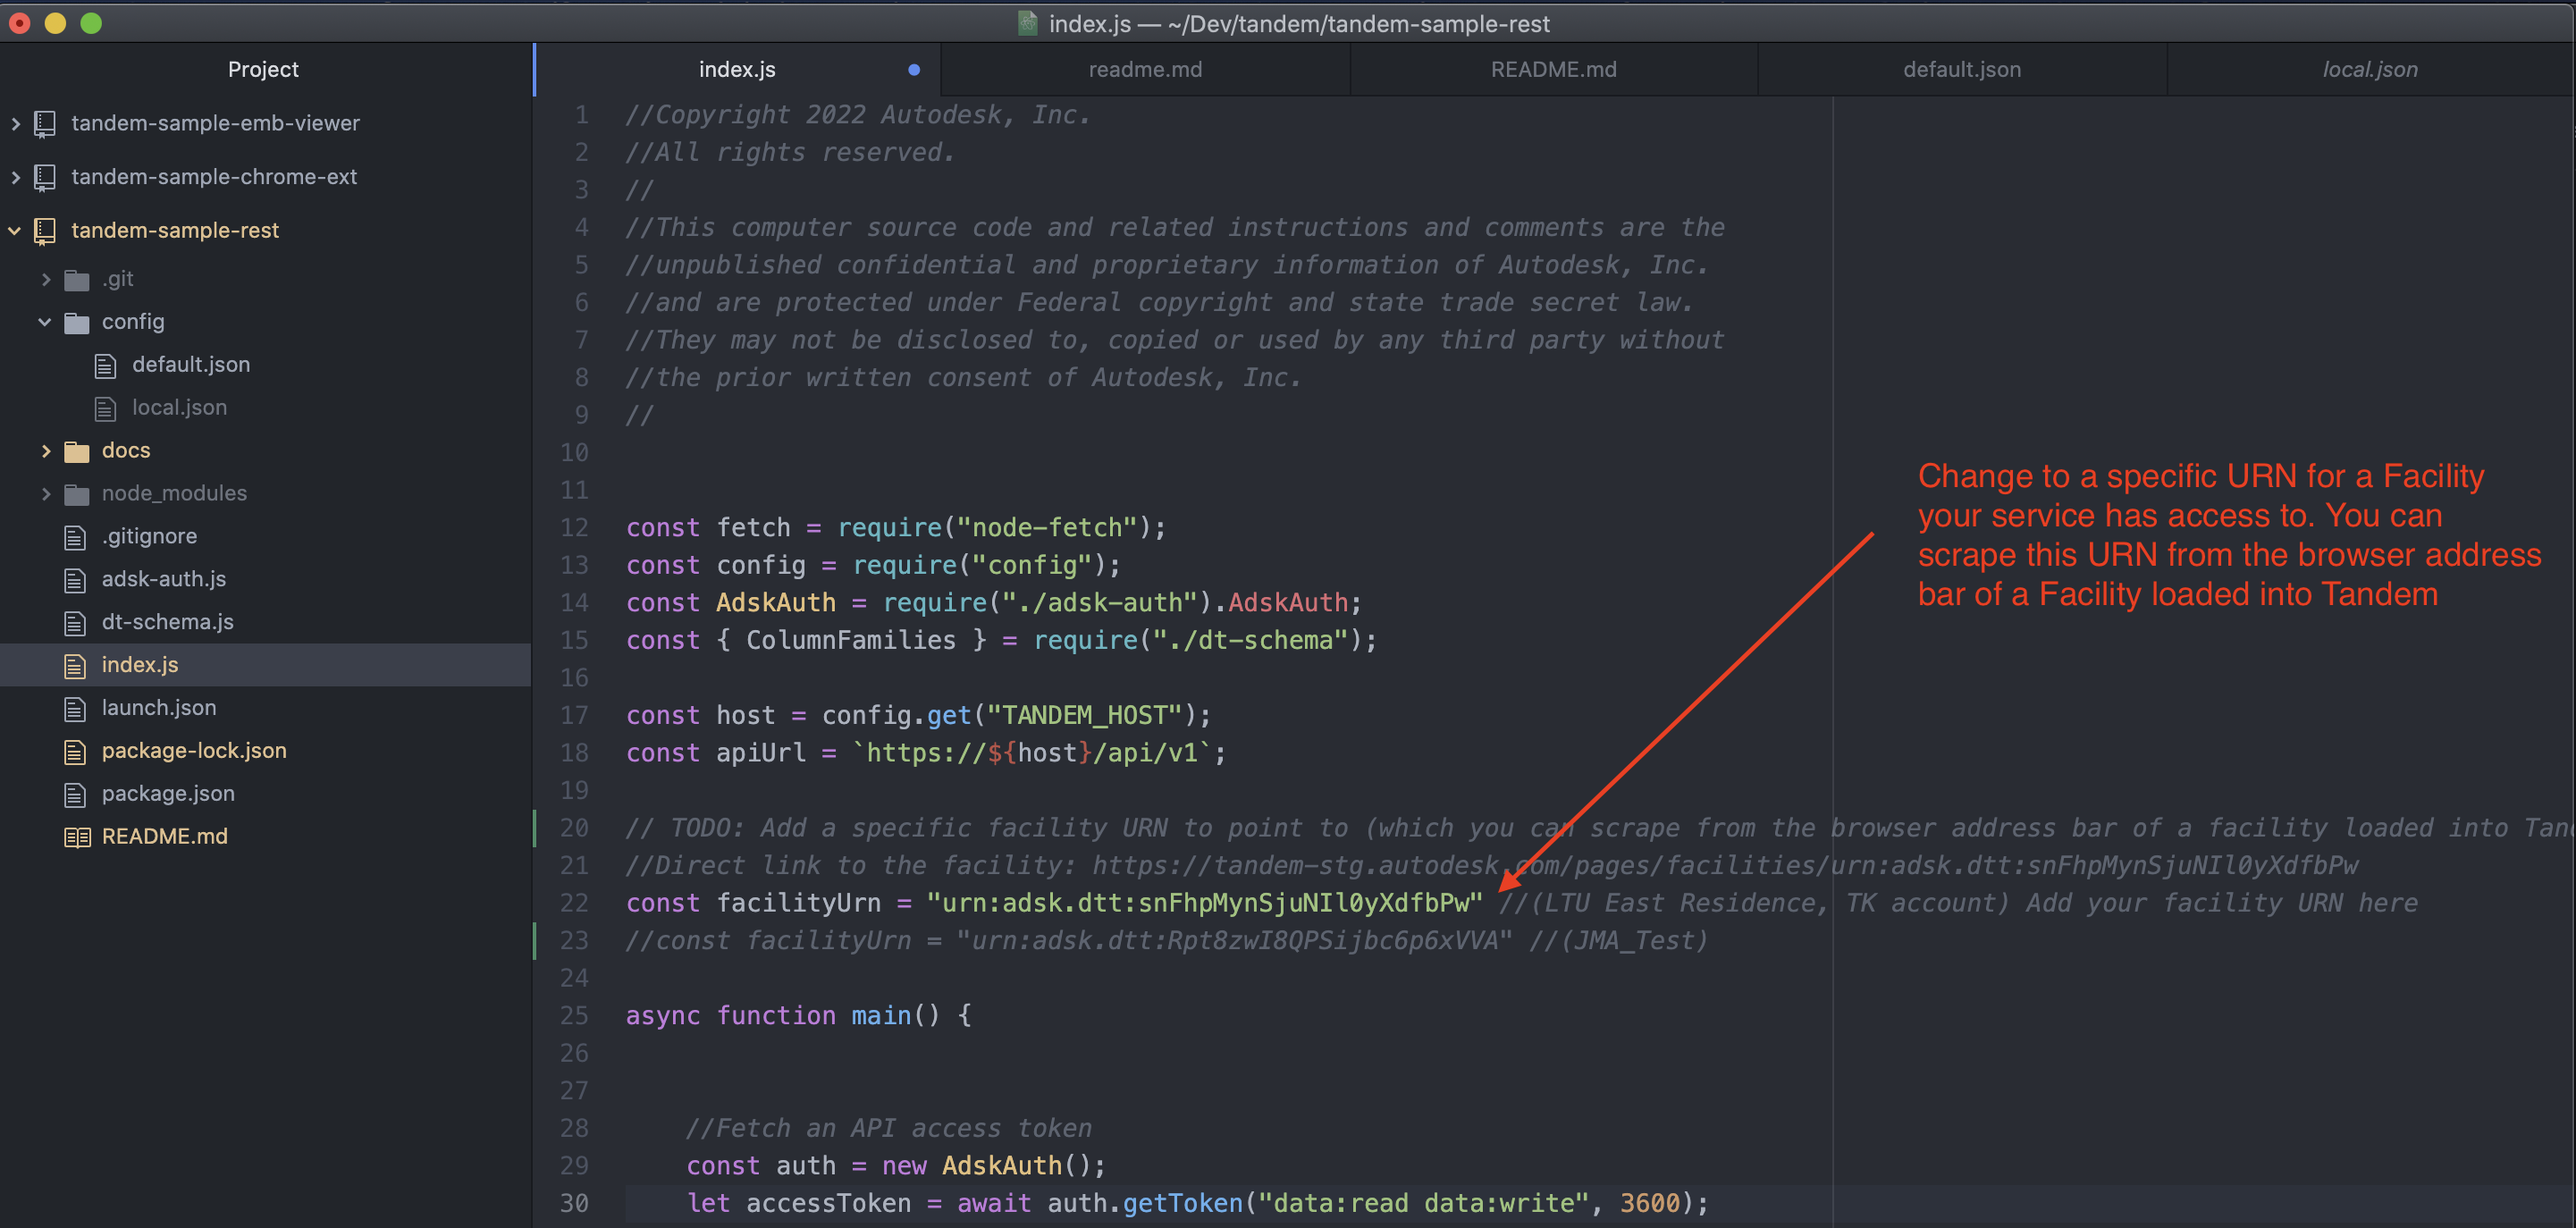
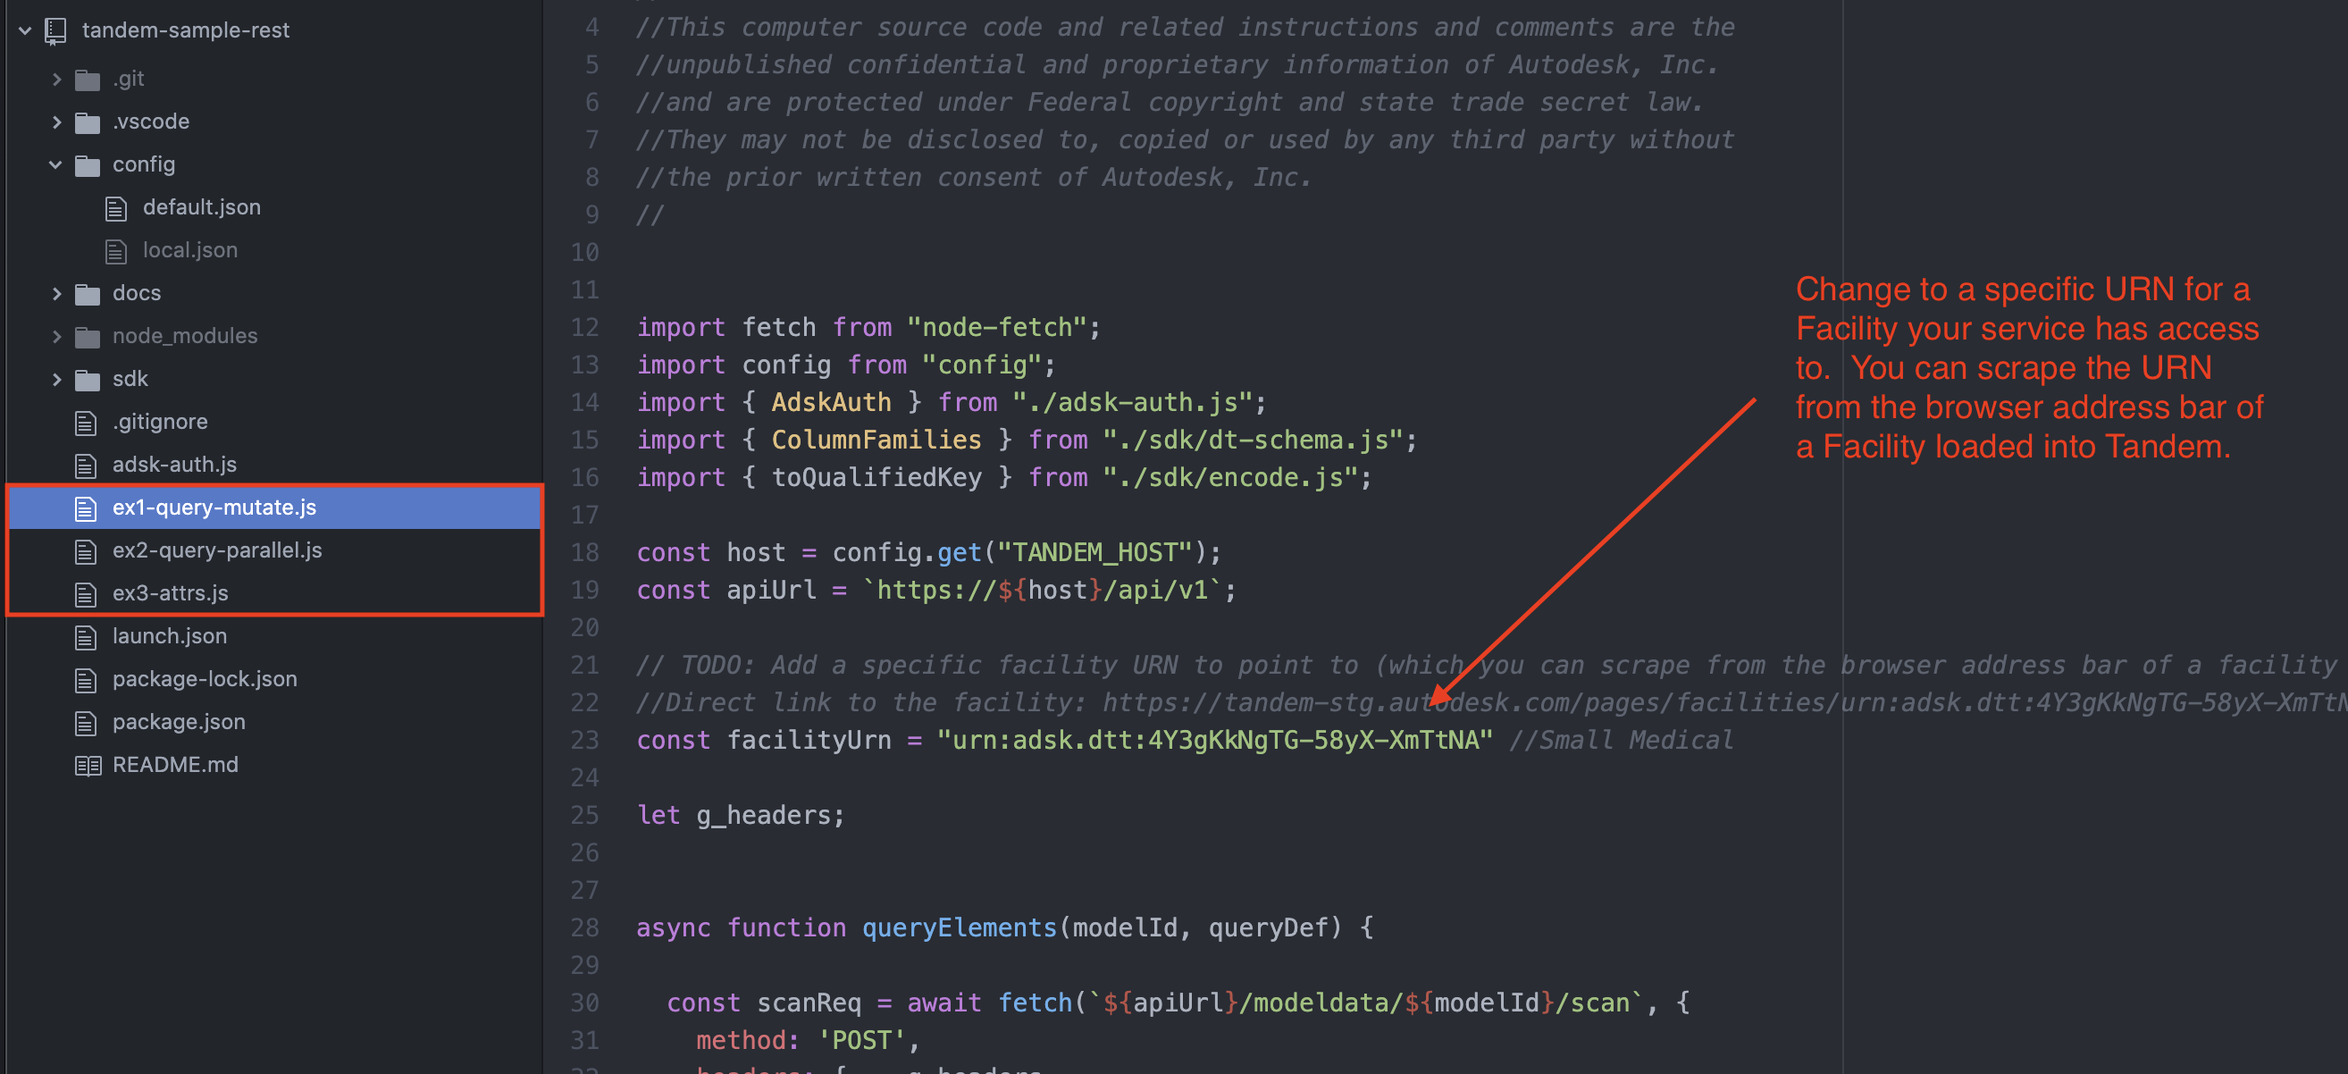
Fixing README to match current state of code

Changed region(s): [[0.0, 0.0, 1.0, 1.0], [0.6553, 0.4925, 0.6865, 0.5849]]

diff --git a/README.md b/README.md
@@ -27,7 +27,7 @@ Example of query and update of model asset data. The output just goes to the Ter
 
 ![Tandem TestBed App 020](./docs/Readme_img_020.png)
 
-3. In the file `index.js`, add the URN of the Facility you used in Step 2.
+3. Each example .js file (ex1-query-mutate.js, ex2-query-parallel.js, etc) there is a line specifying the URN of the Facility.  Change to refer to the URN of the Facility you used in Step 2.
 
 ![Tandem TestBed App 021](./docs/Readme_img_021.png)
 
